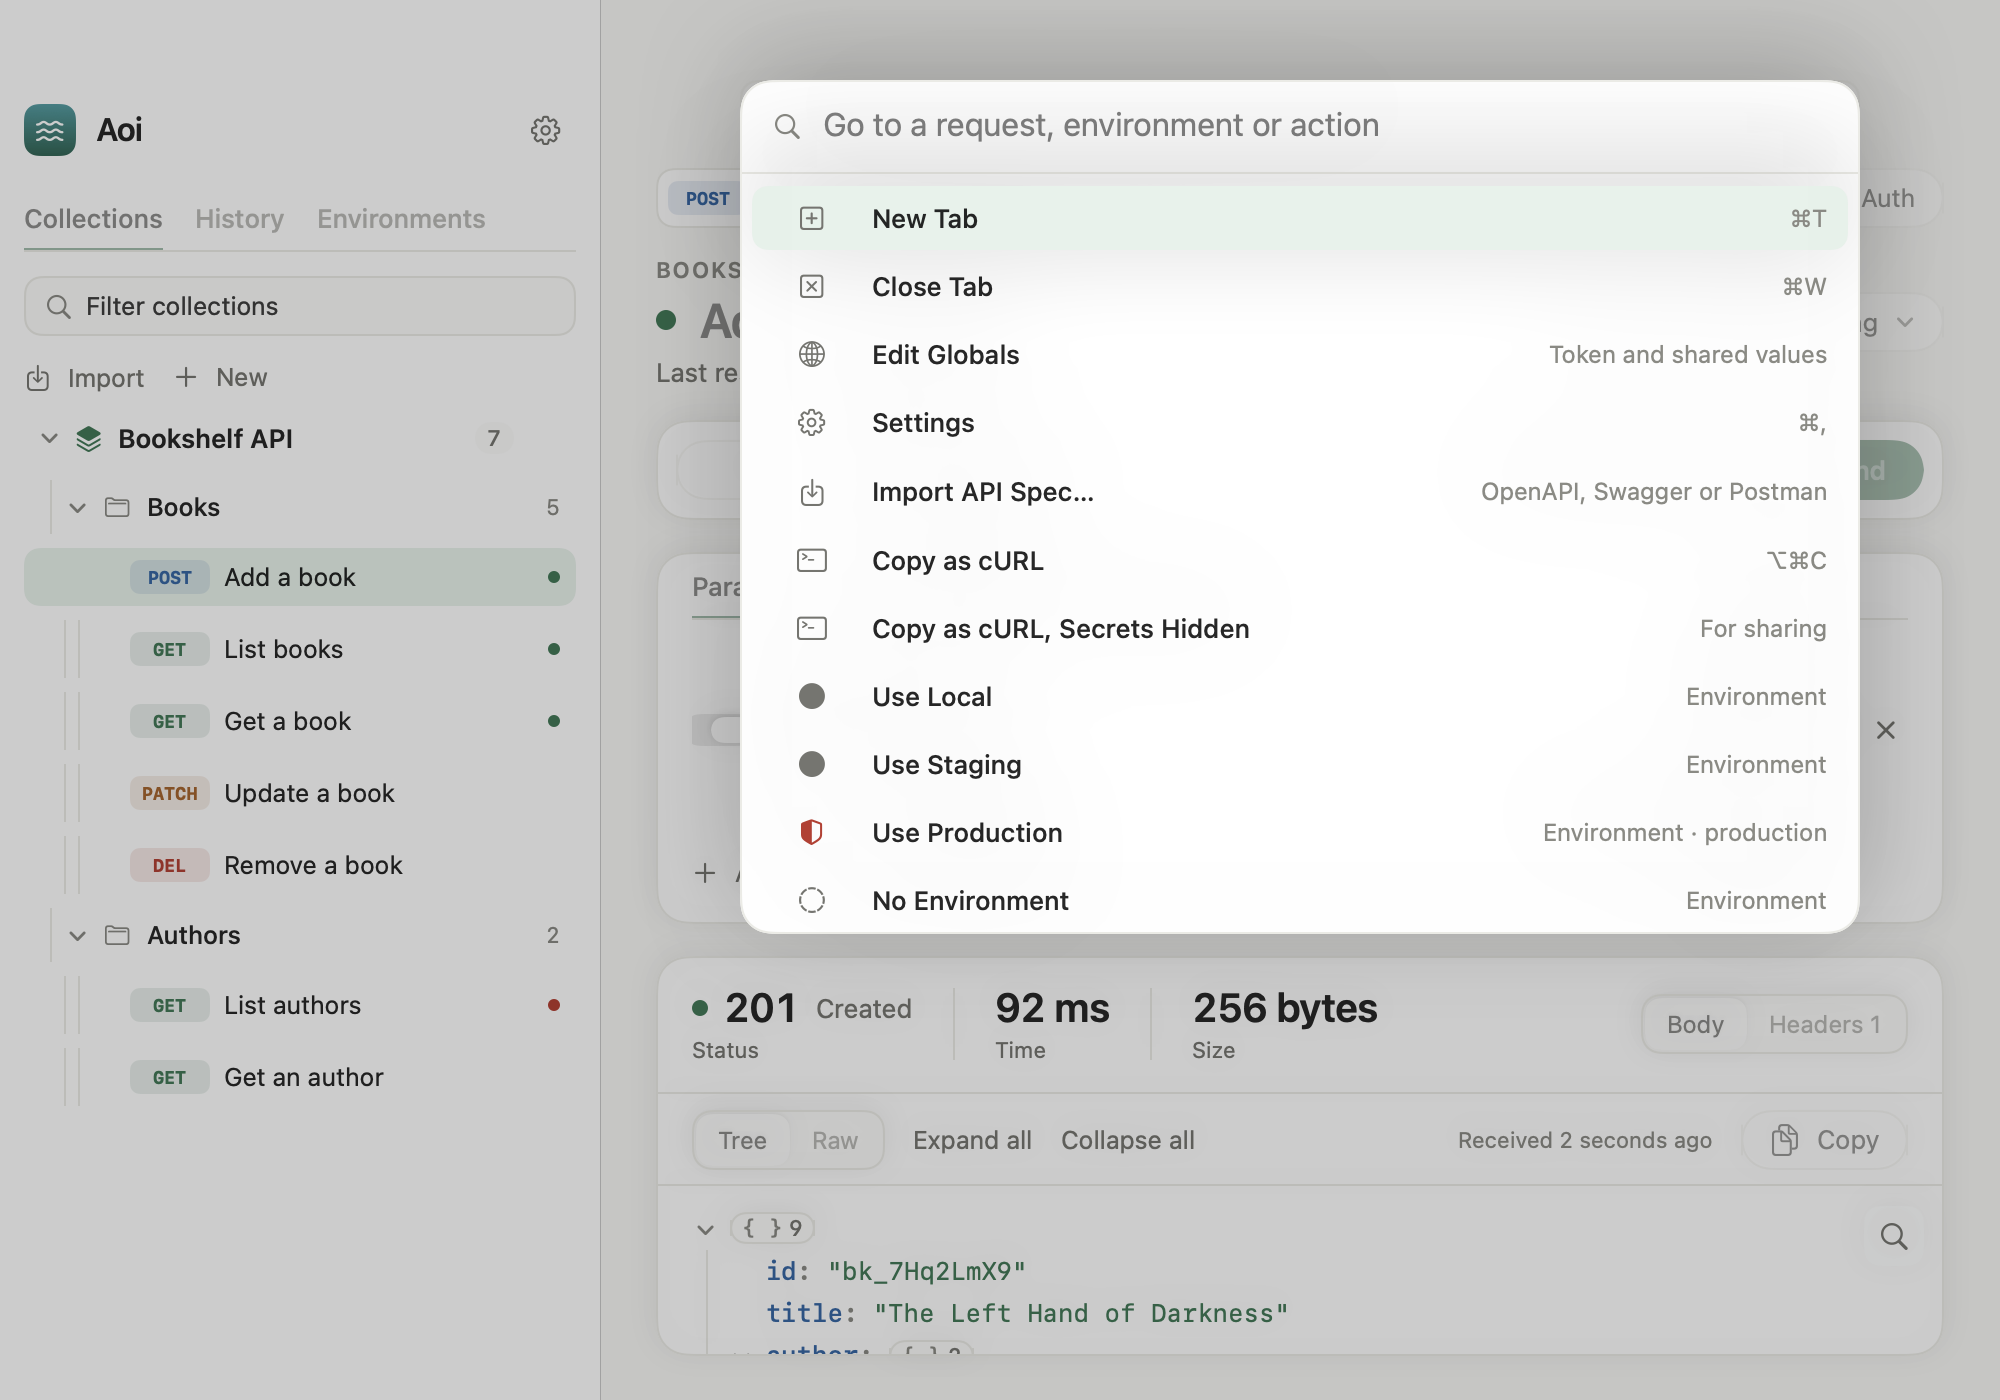
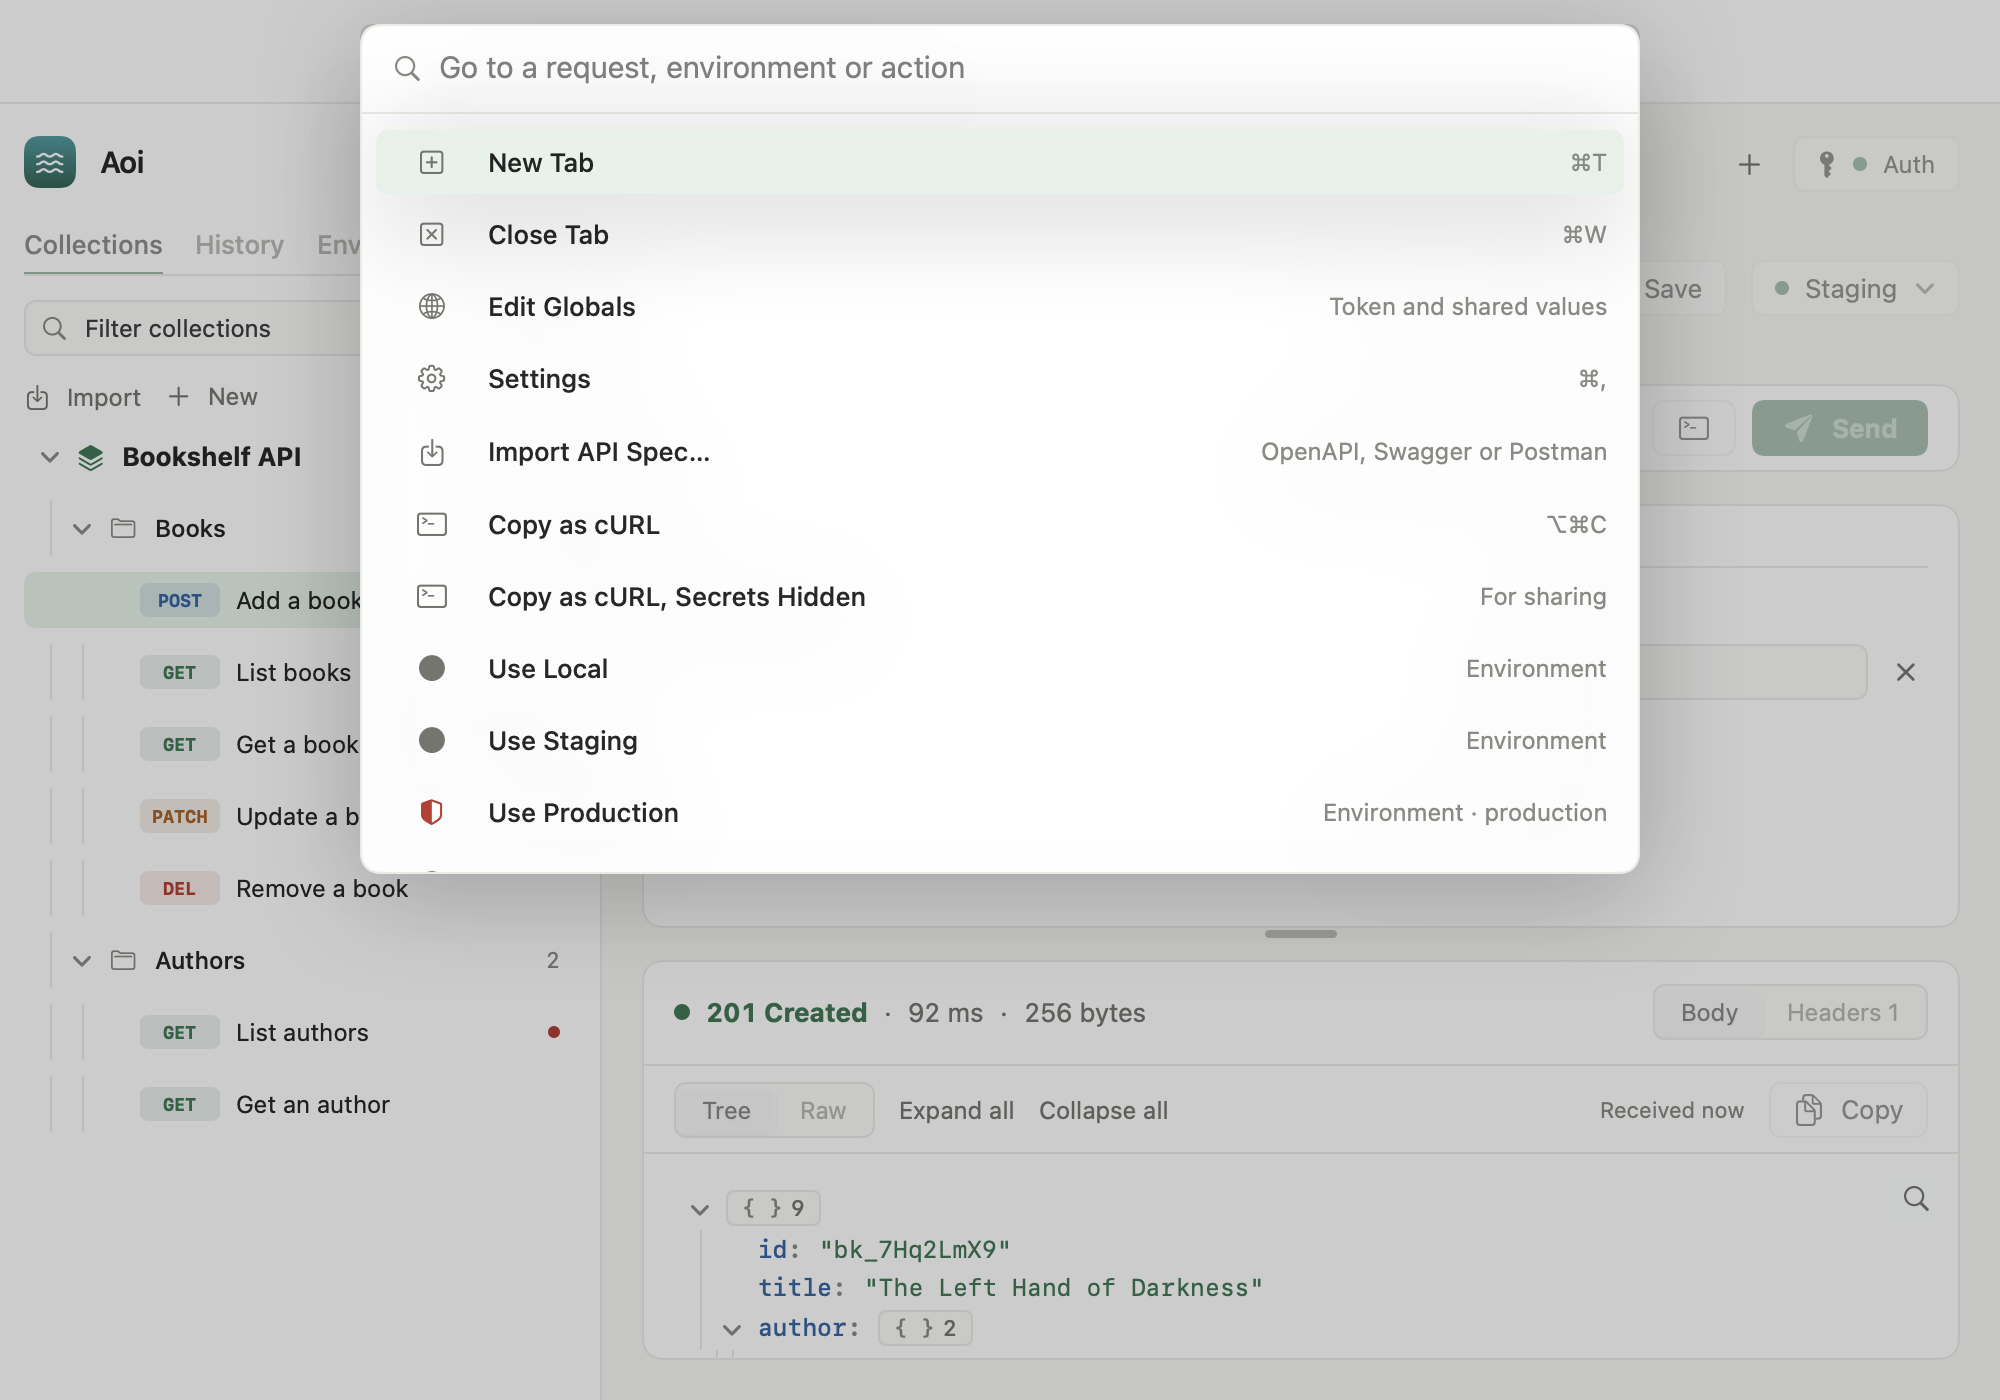
docs: refresh the screenshots, readme and website for the new design

diff --git a/docs/index.html b/docs/index.html
@@ -280,7 +280,7 @@
       <div class="text reveal">
         <div class="num">03</div>
         <h2>Jump anywhere with ⌘K</h2>
-        <p>Press ⌘K or click the search bar, then type a few letters to open any request, switch environment, or copy the current request as cURL. Tabs keep your work side by side.</p>
+        <p>Press ⌘K or click the search bar in the title bar, then type a few letters to open any request, switch environment, or copy the current request as cURL. Tabs keep your work side by side.</p>
       </div>
       <div class="frame reveal" style="--d:1">
         <picture>
@@ -315,6 +315,7 @@
       <span>Collapsible JSON with search</span>
       <span>Session history</span>
       <span>Tabs</span>
+      <span>A sidebar that folds to icons</span>
       <span>Light and dark</span>
       <span>OpenAPI 3, Swagger 2, Postman</span>
     </div>

diff --git a/README.md b/README.md
@@ -31,7 +31,7 @@ and stays on your Mac with no account or cloud sync.</p>
 - **Write bodies that match the API.** The JSON editor knows each endpoint's schema, so it suggests fields, types and allowed values as you type, at any depth, and flags required fields that are missing.
 - **Chain requests without copying.** Right-click any value in a response to keep it as a variable, such as `{{book_id}}`, for the next request. These values last until you quit.
 - **Stay safe on production.** Requests only go out when you click Send or press ⌘Return, and environments marked as production ask before anything that changes data. Settings let you ask for every request, or never.
-- **Move fast.** Use tabs and history, jump anywhere with ⌘K, paste a curl command into the URL bar, or copy any request as one with its secrets hidden.
+- **Move fast.** Use tabs and history, jump anywhere with ⌘K from the search bar in the title bar, fold the sidebar down to a strip of icons with ⌃⌘S, paste a curl command into the URL bar, or copy any request as one with its secrets hidden.
 
 ## Getting started
 
